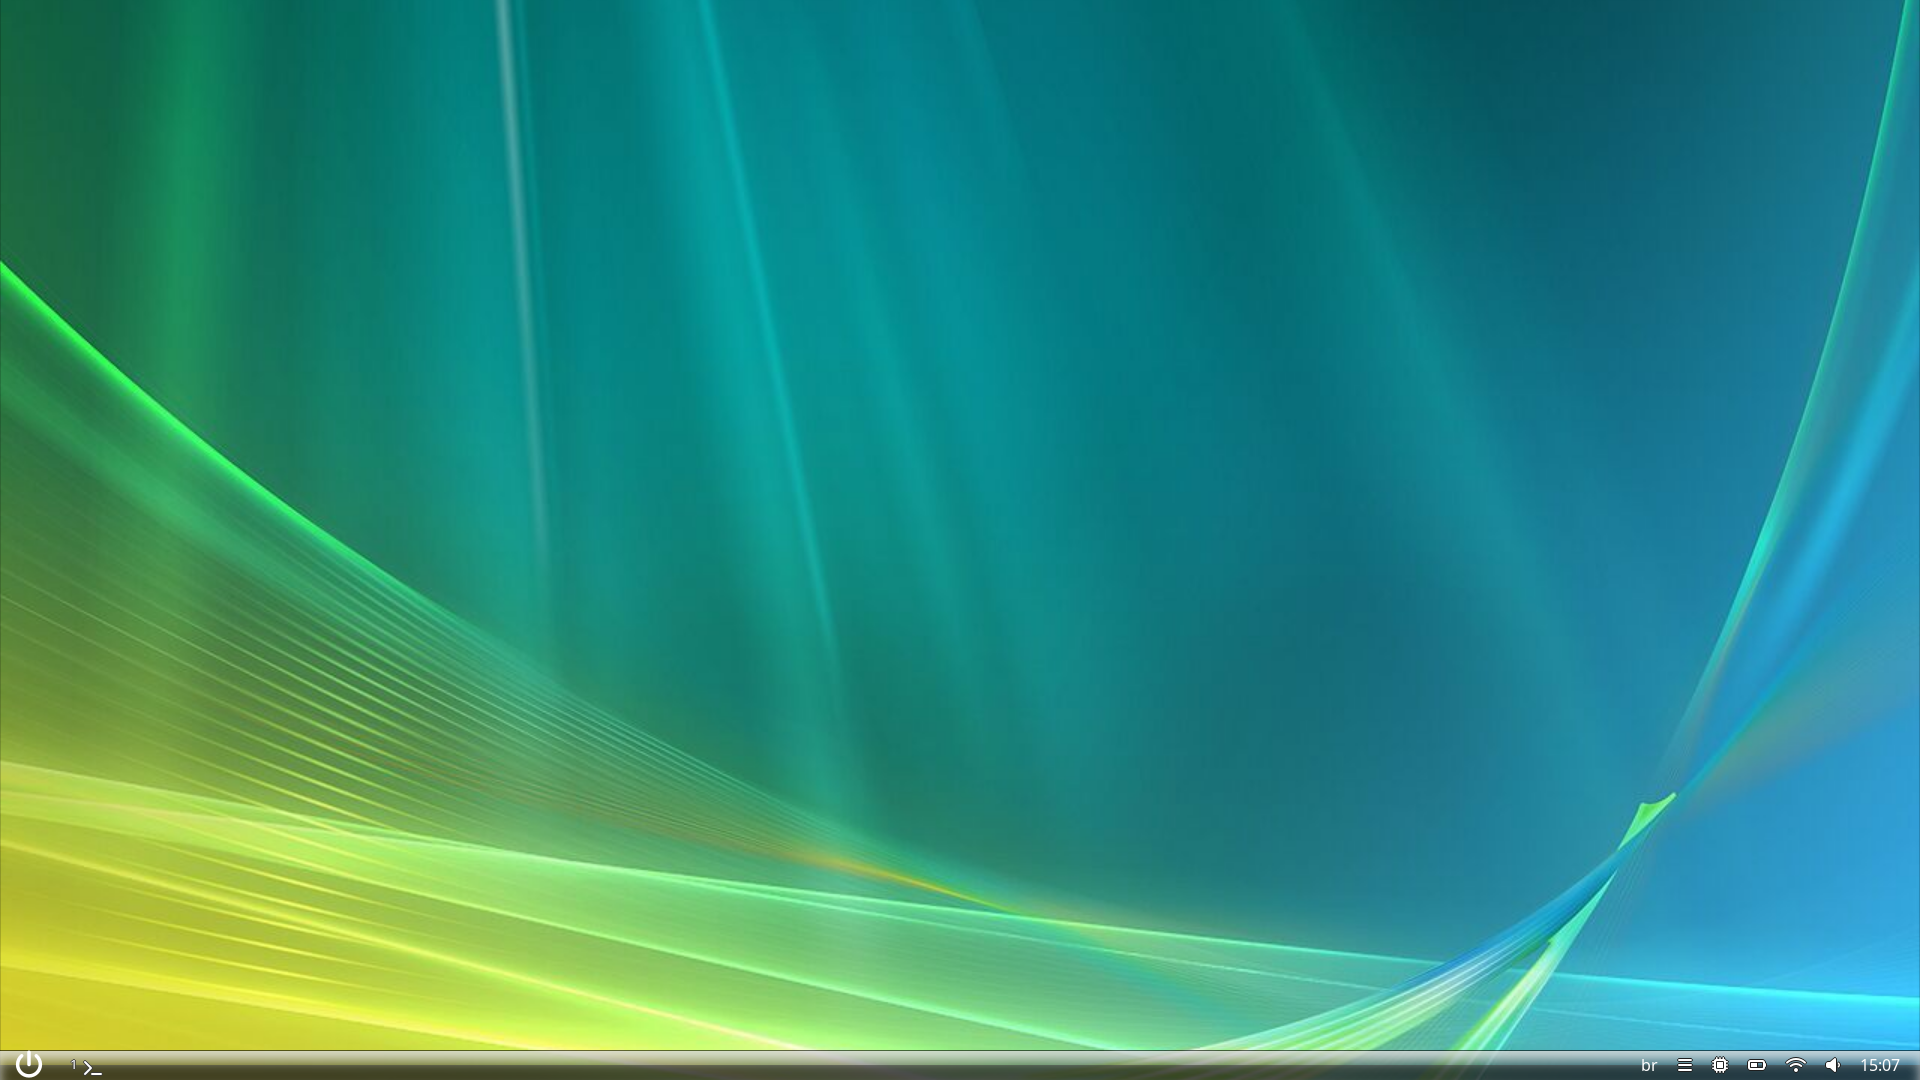
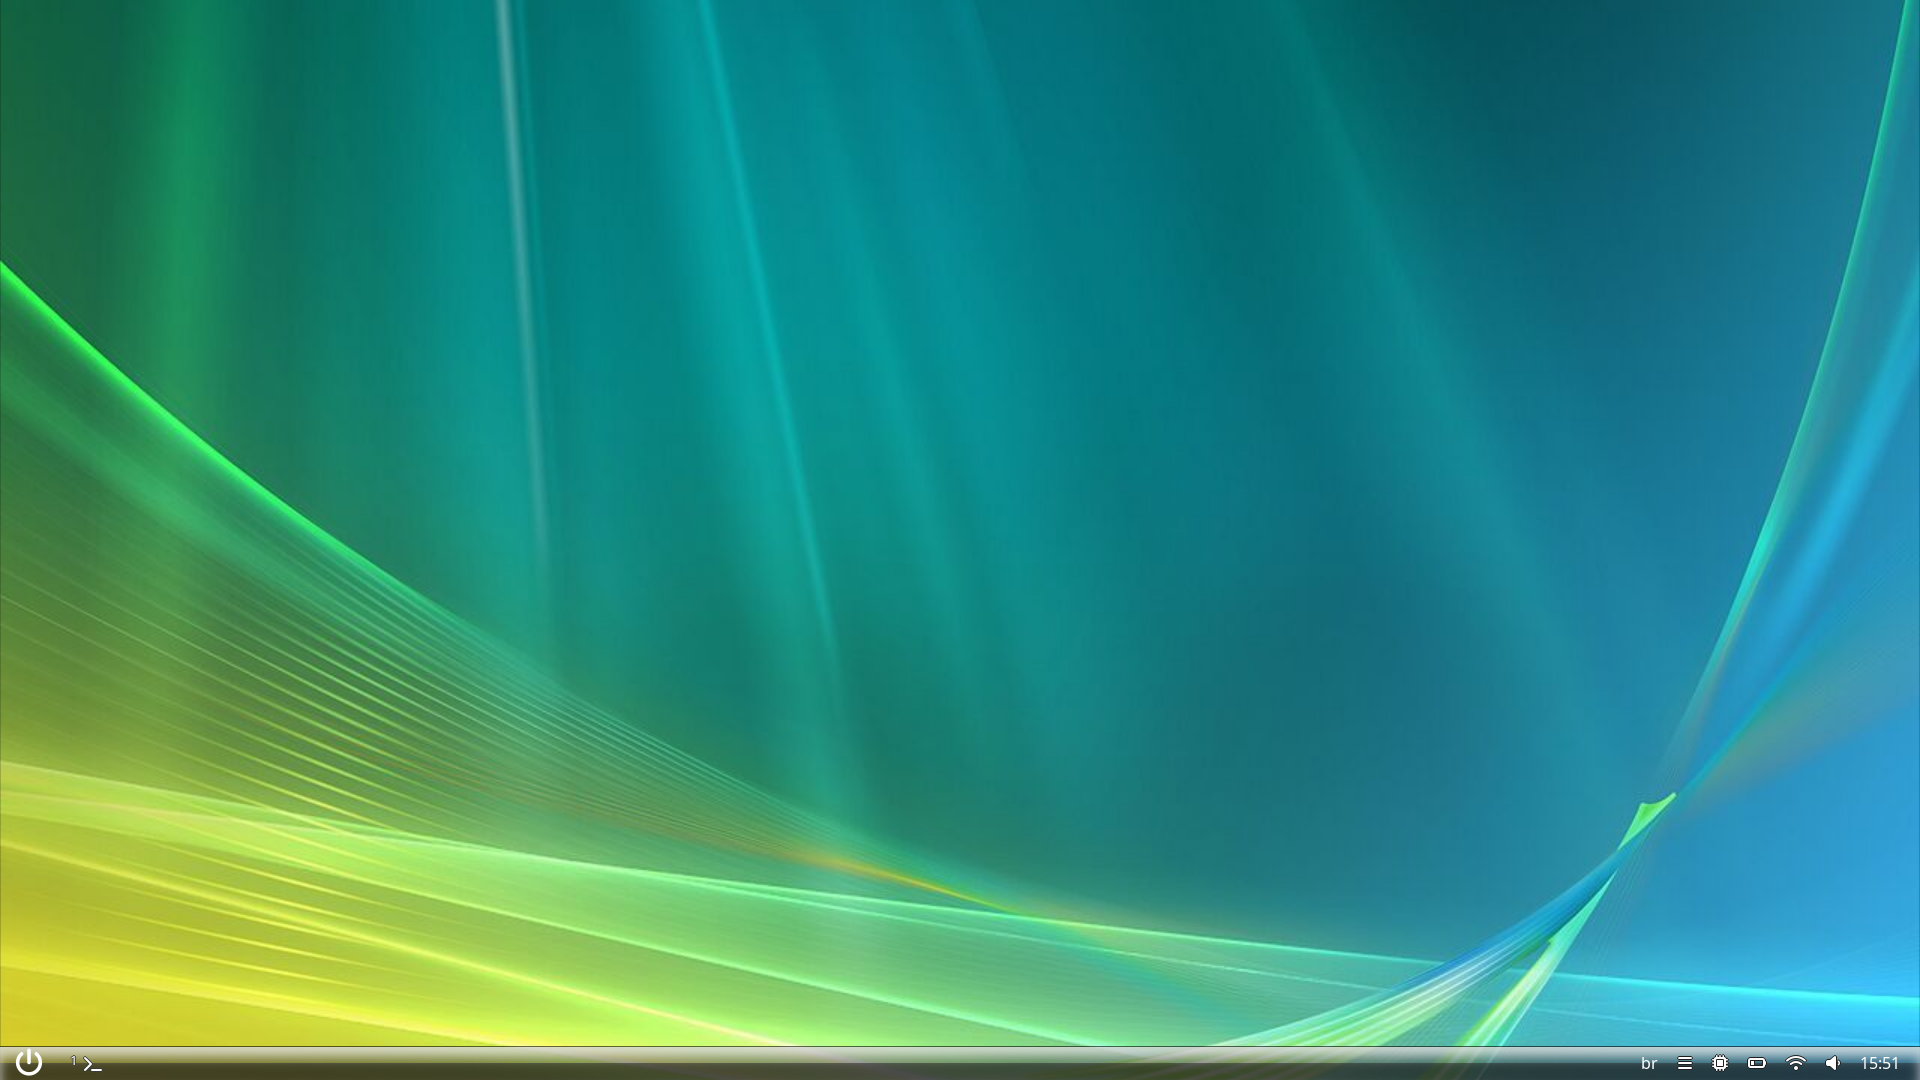
quick height fix

Changed region(s): [[0.0, 0.9472, 1.0, 1.0]]

diff --git a/waybar/style.css b/waybar/style.css
@@ -13,7 +13,7 @@ window#waybar {
 
 #workspaces button {
     margin-left: 2px;
-    padding: 0 5px;
+    padding: 0 5px 3px;
     background-color: transparent;
     color: #769bb6;
     text-shadow: -1px 0 #3a3a3a, 0 1px #3a3a3a, 1px 0 #3a3a3a, 0 -1px #3a3a3a;
